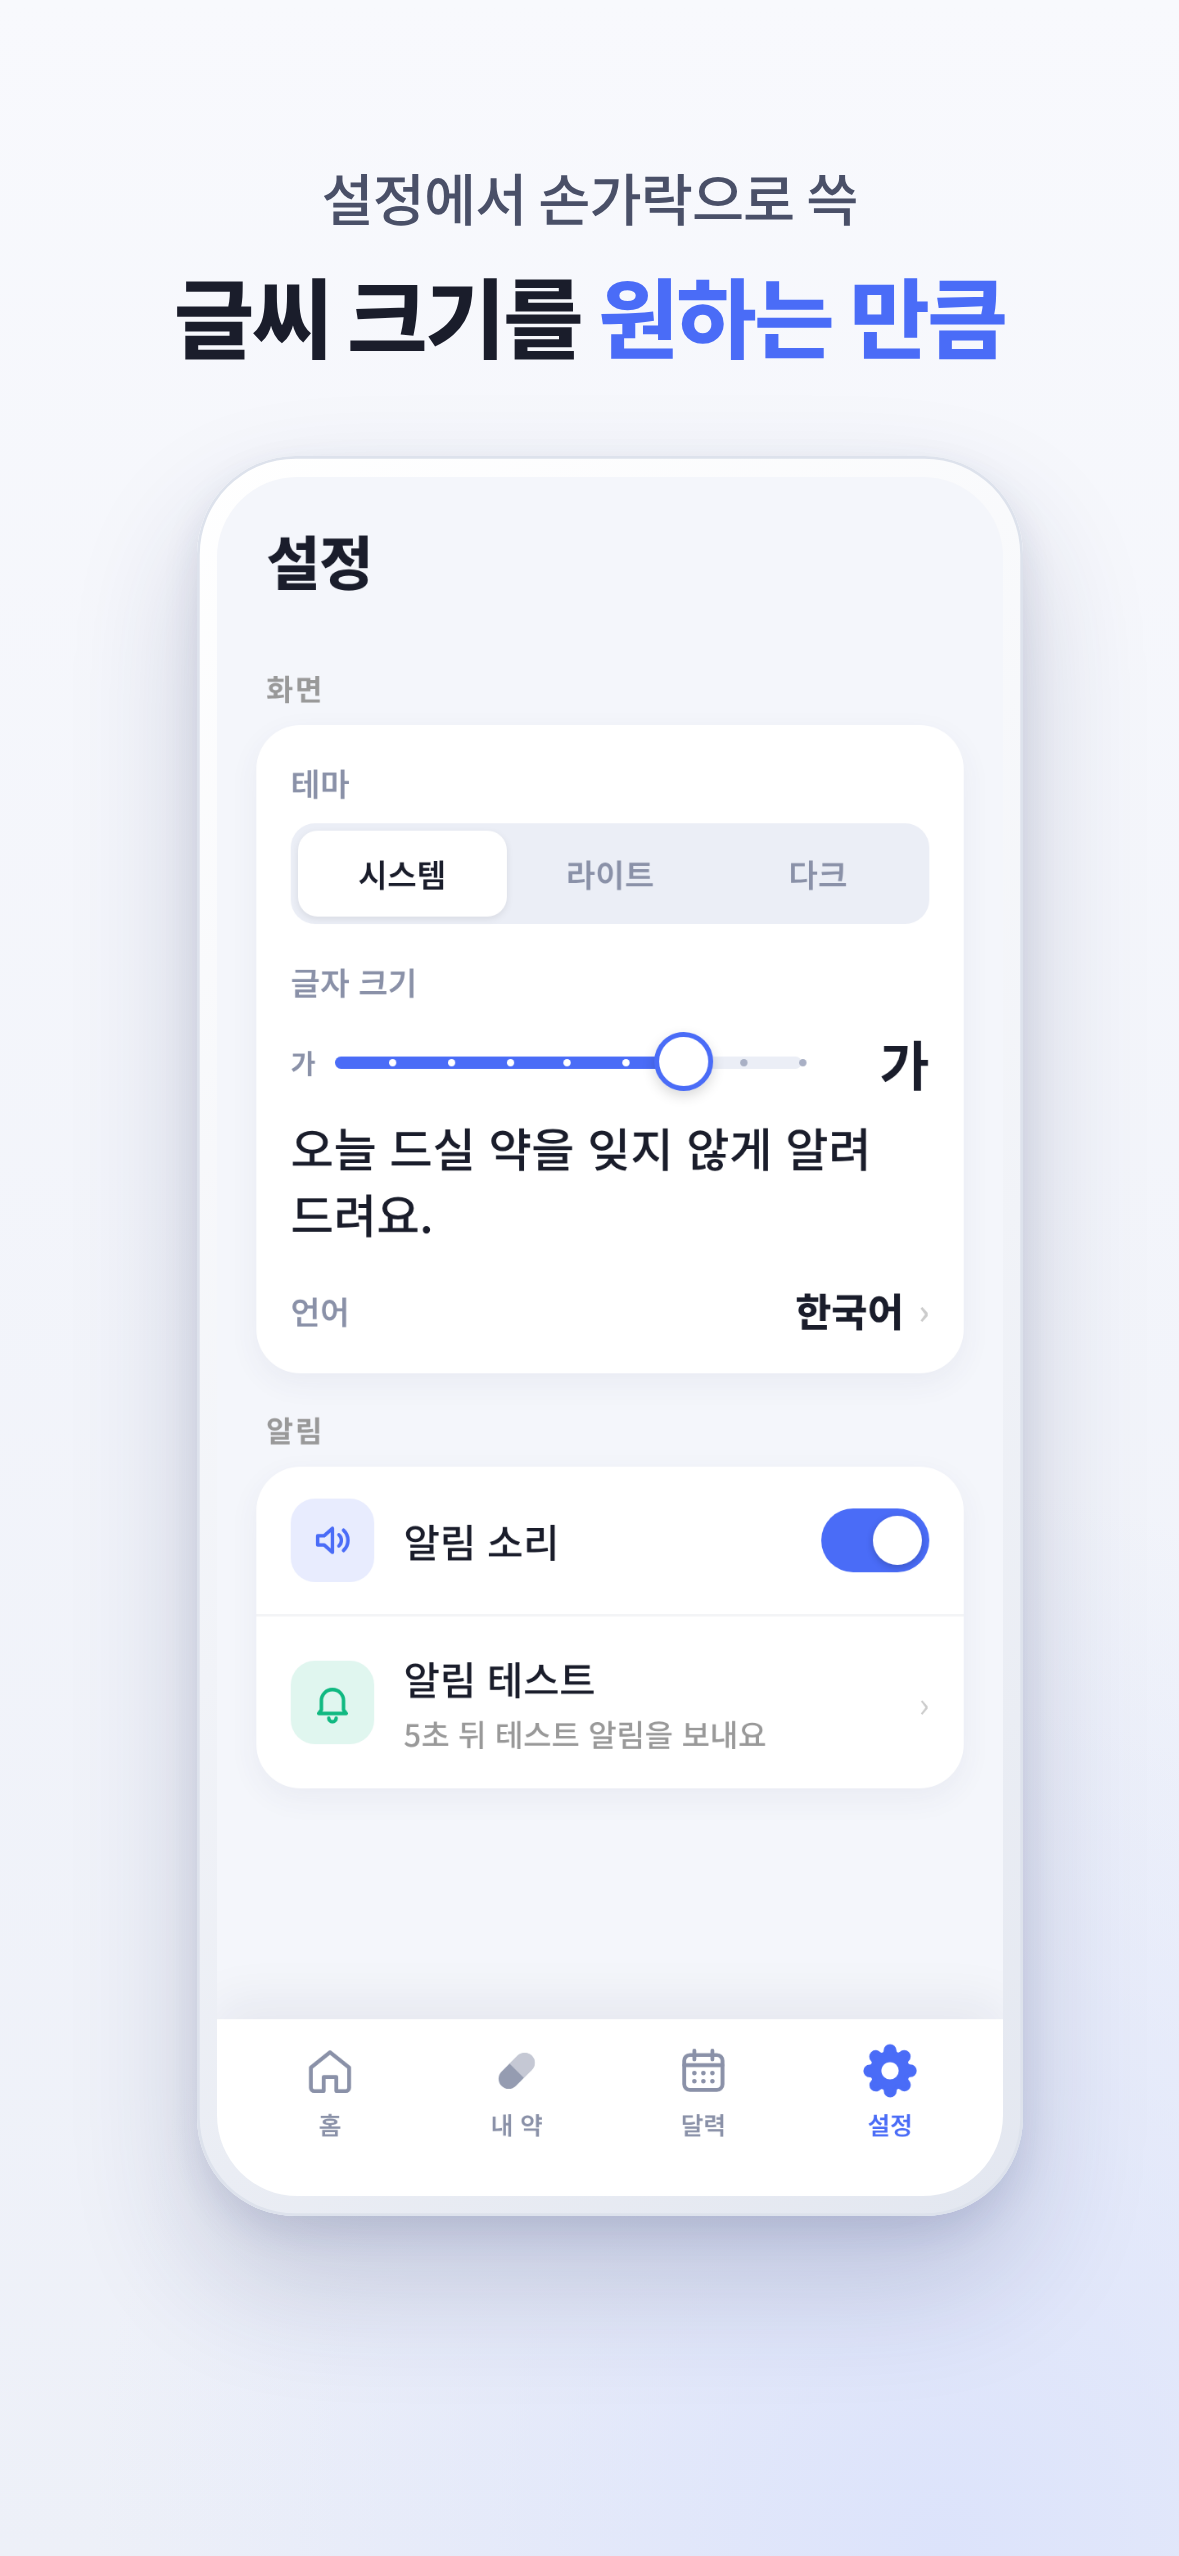
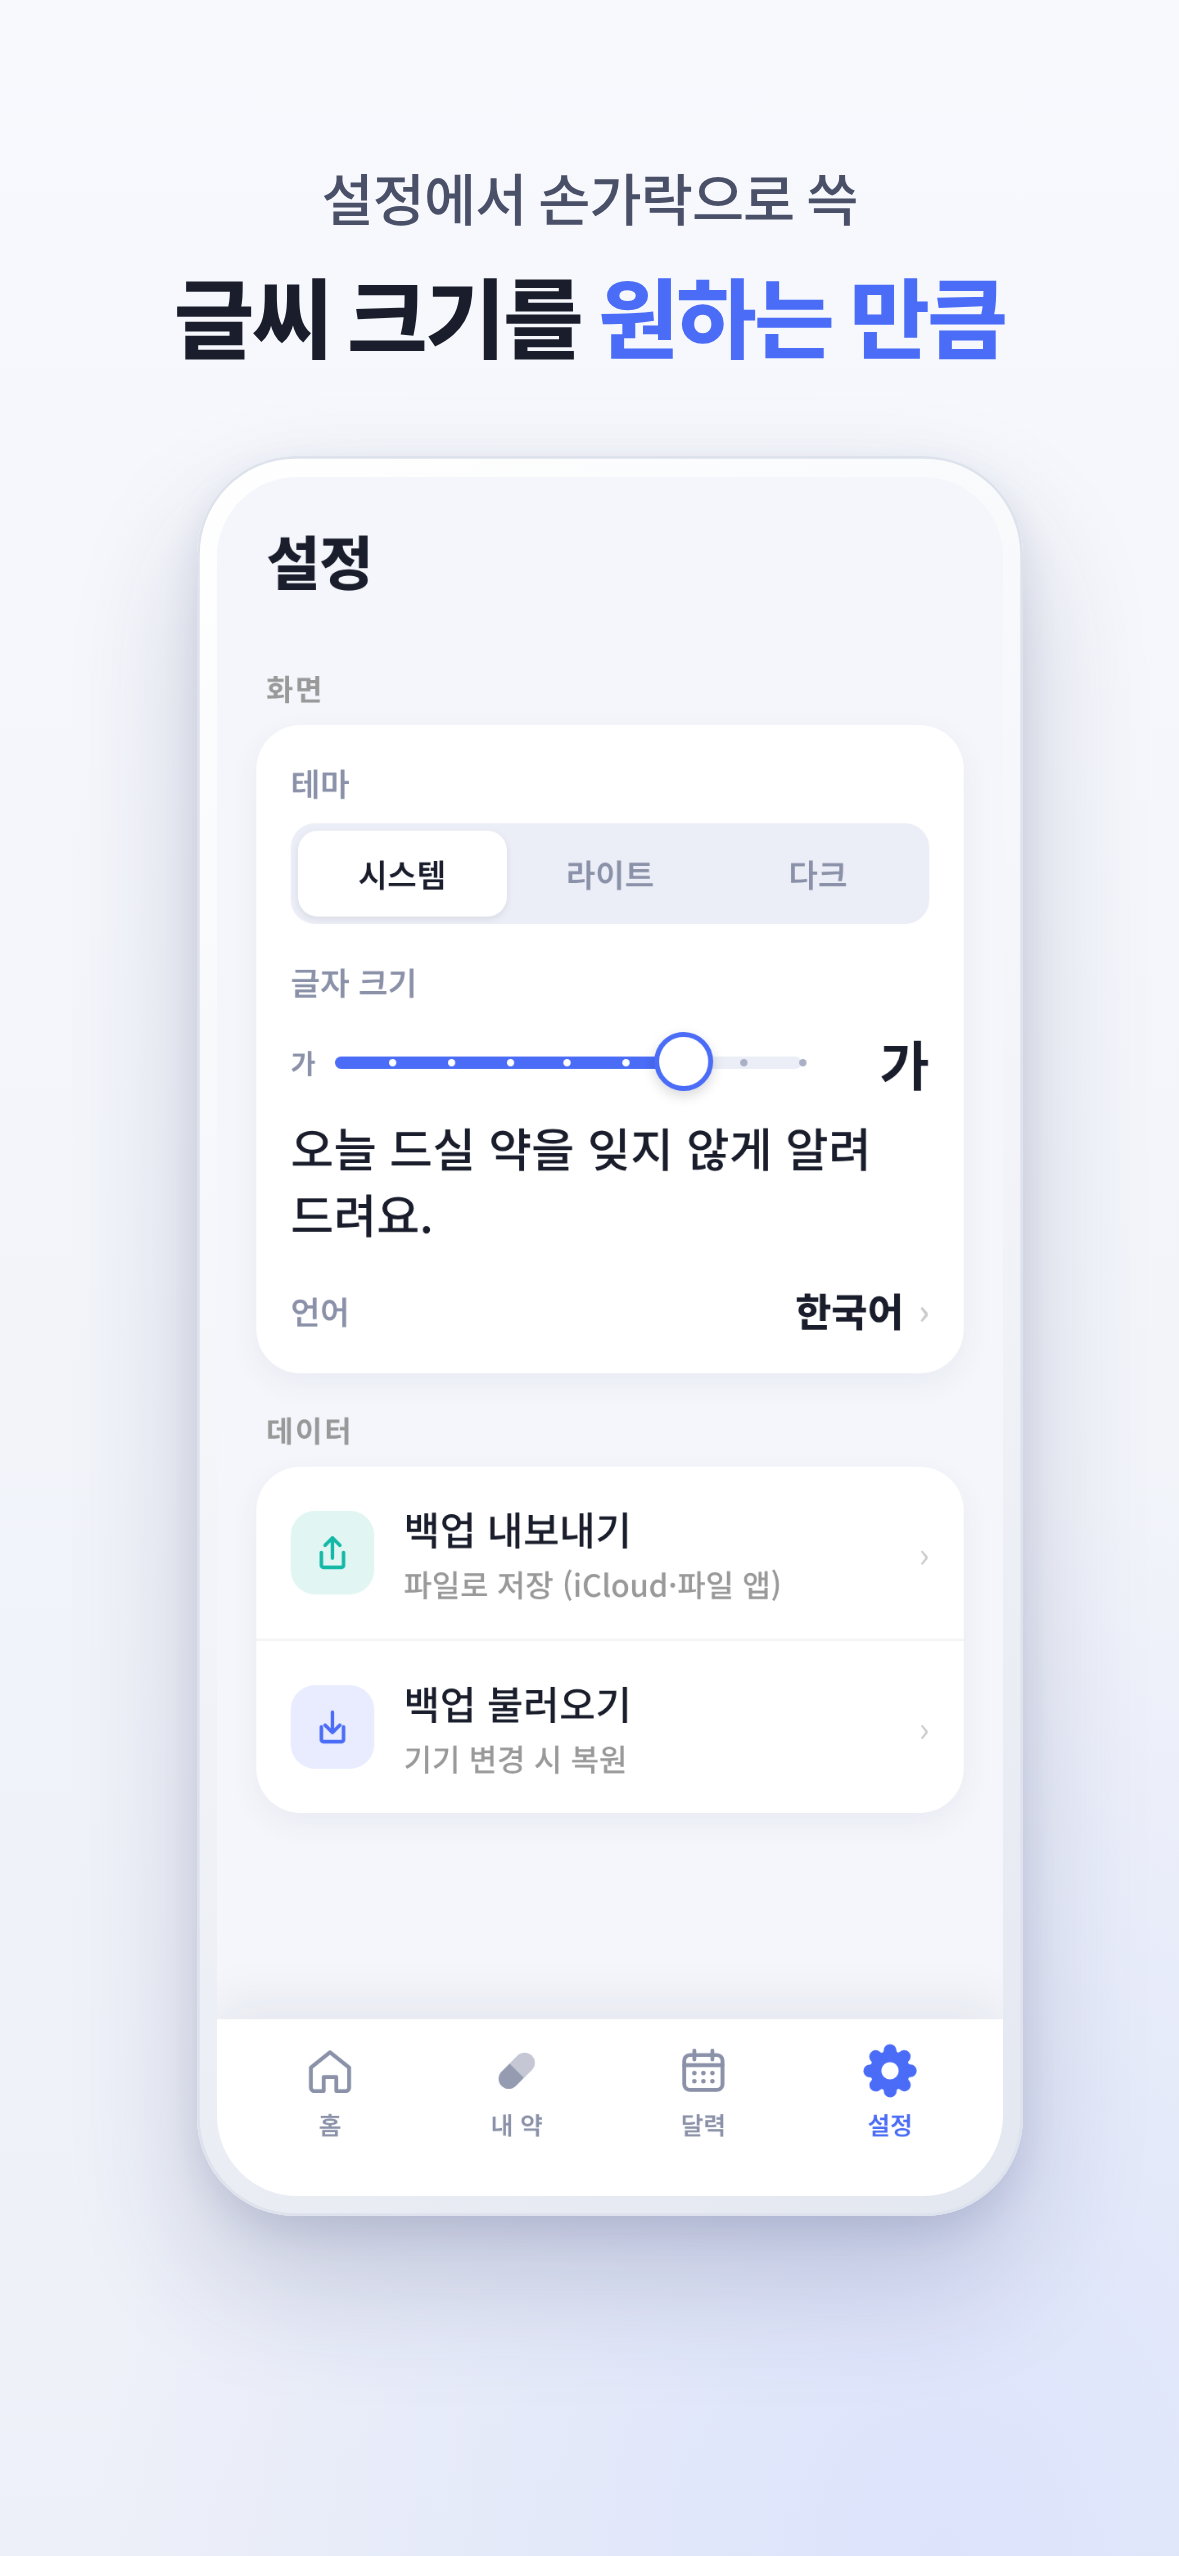
Mockup: match the app in five more places found by code review
- Calendar: month arrows at the card edges, streak chip under the calendar
- Family alerts: code entry in its own card below the family cards
- Settings: Display is followed by Data (backup), as in the app's order
- Medicine list: separate rounded delete button with a trash icon; drop the
  swipe hint the app doesn't show
Korean screenshots re-rendered at every size.

Claude-Session: https://claude.ai/code/session_01FsfgzBCkXCq3RhxTQFRGQP

diff --git a/MediRemind/mockup.html b/MediRemind/mockup.html
@@ -117,10 +117,10 @@
   .switch::after { content:''; position:absolute; right:3px; top:3px; width:20px; height:20px; background:#FFF; border-radius:10px; box-shadow:0 1px 3px rgba(0,0,0,.2); }
   .switch.off { background:#CCD2E0; }
   .switch.off::after { left:3px; right:auto; }
-  .med.swiped { transform:translateX(-64px); }
-  .swipe-wrap { position:relative; border-radius:18px; overflow:hidden; margin-bottom:10px; }
+  .med.swiped { transform:translateX(-82px); }
+  .swipe-wrap { position:relative; margin-bottom:10px; }
   .swipe-wrap .med { margin-bottom:0; }
-  .del { position:absolute; right:0; top:0; bottom:0; width:64px; background:#EF4444; color:#FFF; display:flex; flex-direction:column; align-items:center; justify-content:center; font-size:11px; font-weight:700; gap:2px; border-radius:0 18px 18px 0; }
+  .del { position:absolute; right:0; top:0; bottom:0; width:72px; background:#EF4444; color:#FFF; display:flex; flex-direction:column; align-items:center; justify-content:center; font-size:11px; font-weight:700; gap:2px; border-radius:18px; }
 
   /* ── Form ── */
   .sec-title { font-size:13px; font-weight:700; color:#4A6CF7; margin-bottom:11px; }
@@ -142,7 +142,8 @@
   /* ── Calendar ── */
   .rate-badge { background:#EDF1FE; color:#4A6CF7; border-radius:16px; padding:6px 13px; font-size:12px; font-weight:800; }
   .cal { background:#FFF; border-radius:20px; padding:14px; margin-bottom:12px; box-shadow:0 8px 20px rgba(63,74,126,.08); }
-  .cal .mon { text-align:center; font-weight:800; font-size:14px; margin-bottom:10px; color:#1A1D2B; }
+  .cal .mon { display:flex; justify-content:space-between; align-items:center; font-weight:800; font-size:14px; margin-bottom:10px; color:#1A1D2B; padding:0 4px; }
+  .cal .mon .ar { color:#4A6CF7; font-size:18px; font-weight:600; }
   .cal table { width:100%; border-collapse:collapse; font-size:11px; text-align:center; }
   .cal th { color:#8A91A8; font-weight:600; padding:4px 0; }
   .cal td { padding:6px 0; color:#333; position:relative; }
@@ -407,7 +408,7 @@
         <div class="switch"></div>
       </div>
       <div class="swipe-wrap">
-        <div class="del">🗑<br>삭제</div>
+        <div class="del"><svg viewBox="0 0 24 24" style="width:18px;height:18px;fill:#fff"><path d="M9 3h6l1 2h4v2H4V5h4zM6 9h12l-1 11a2 2 0 0 1-2 2H9a2 2 0 0 1-2-2z"/></svg><span>삭제</span></div>
         <div class="med swiped">
           <div class="icon purple"><svg class="pill-ic" viewBox="0 0 24 24"><g transform="rotate(-45 12 12)"><rect x="2.8" y="7.8" width="18.4" height="8.4" rx="4.2"/><path class="half" d="M12 7.8H7a4.2 4.2 0 0 0 0 8.4h5z"/></g></svg></div>
           <div class="b">
@@ -425,7 +426,6 @@
         </div>
         <div class="switch off"></div>
       </div>
-      <p style="text-align:center; font-size:11px; color:#9AA1B5; margin-top:8px">← 왼쪽으로 밀면 삭제</p>
     </div>
     <div class="tabbar">
       <div class="tab"><svg class="ic" viewBox="0 0 24 24"><path class="f" d="M3.5 10.6 12 3.8l8.5 6.8V19.5a1.5 1.5 0 0 1-1.5 1.5h-4.2v-6.2H9.2V21H5a1.5 1.5 0 0 1-1.5-1.5z"/></svg>홈</div>
@@ -488,7 +488,7 @@
     </div>
     <div class="body">
       <div class="cal">
-        <div class="mon">‹&nbsp;&nbsp;2026년 7월&nbsp;&nbsp;›</div>
+        <div class="mon"><span class="ar">‹</span>2026년 7월<span class="ar">›</span></div>
         <table>
           <tr><th>일</th><th>월</th><th>화</th><th>수</th><th>목</th><th>금</th><th>토</th></tr>
           <tr><td class="dis">28</td><td class="dis">29</td><td class="dis">30</td><td>1<span class="d"><i class="g"></i></span></td><td>2<span class="d"><i class="g"></i></span></td><td>3<span class="d"><i class="g"></i><i class="r"></i></span></td><td>4<span class="d"><i class="g"></i></span></td></tr>
@@ -496,6 +496,7 @@
           <tr><td>12</td><td>13</td><td>14</td><td>15</td><td>16</td><td>17</td><td>18</td></tr>
         </table>
       </div>
+      <div class="streak" style="margin:0 0 10px">🔥 12일 연속 복용</div>
       <div style="font-size:13px; font-weight:700; margin:2px 4px 8px;">오늘</div>
       <div class="rec" style="border-left-color:#4A6CF7">
         <span class="sd" style="background:#4A6CF7"></span>
@@ -674,8 +675,8 @@
         <div class="gd-row"><span class="gd-time">19:00</span><span class="gd-med">혈압약</span><span class="gd-st miss">안 먹음</span></div>
         <div class="gd-row"><span class="gd-time">22:00</span><span class="gd-med">종합비타민</span><span class="gd-st next">예정</span></div>
         <div class="hist"><div class="hist-h"><span class="gd-lbl">최근 2주</span><b>복용률 89%</b></div><div class="hbars"><div class="hb"><div class="ht"><i style="flex:0;background:#EBEEF6"></i><i style="flex:0;background:#EF4444"></i><i style="flex:3;background:#10B981"></i></div><span class="">23</span></div><div class="hb"><div class="ht"><i style="flex:0;background:#EBEEF6"></i><i style="flex:0;background:#EF4444"></i><i style="flex:3;background:#10B981"></i></div><span class="">24</span></div><div class="hb"><div class="ht"><i style="flex:0;background:#EBEEF6"></i><i style="flex:1;background:#EF4444"></i><i style="flex:2;background:#10B981"></i></div><span class="">25</span></div><div class="hb"><div class="ht"><i style="flex:0;background:#EBEEF6"></i><i style="flex:0;background:#EF4444"></i><i style="flex:3;background:#10B981"></i></div><span class="">26</span></div><div class="hb"><div class="ht"><i style="flex:0;background:#EBEEF6"></i><i style="flex:0;background:#EF4444"></i><i style="flex:3;background:#10B981"></i></div><span class="">27</span></div><div class="hb"><div class="ht"><i style="flex:0;background:#EBEEF6"></i><i style="flex:0;background:#EF4444"></i><i style="flex:3;background:#10B981"></i></div><span class="">28</span></div><div class="hb"><div class="ht"><i style="flex:0;background:#EBEEF6"></i><i style="flex:2;background:#EF4444"></i><i style="flex:1;background:#10B981"></i></div><span class="">29</span></div><div class="hb"><div class="ht"><i style="flex:0;background:#EBEEF6"></i><i style="flex:0;background:#EF4444"></i><i style="flex:3;background:#10B981"></i></div><span class="">30</span></div><div class="hb"><div class="ht"><i style="flex:0;background:#EBEEF6"></i><i style="flex:0;background:#EF4444"></i><i style="flex:3;background:#10B981"></i></div><span class="">1</span></div><div class="hb"><div class="ht"><i style="flex:0;background:#EBEEF6"></i><i style="flex:0;background:#EF4444"></i><i style="flex:3;background:#10B981"></i></div><span class="">2</span></div><div class="hb"><div class="ht"><i style="flex:0;background:#EBEEF6"></i><i style="flex:1;background:#EF4444"></i><i style="flex:2;background:#10B981"></i></div><span class="">3</span></div><div class="hb"><div class="ht"><i style="flex:0;background:#EBEEF6"></i><i style="flex:0;background:#EF4444"></i><i style="flex:3;background:#10B981"></i></div><span class="">4</span></div><div class="hb"><div class="ht"><i style="flex:0;background:#EBEEF6"></i><i style="flex:0;background:#EF4444"></i><i style="flex:3;background:#10B981"></i></div><span class="">5</span></div><div class="hb"><div class="ht"><i style="flex:1;background:#EBEEF6"></i><i style="flex:1;background:#EF4444"></i><i style="flex:1;background:#10B981"></i></div><span class="td">6</span></div></div><div class="hleg"><i style="background:#10B981"></i>복용<i style="background:#EF4444"></i>안 먹음</div></div>
-        <div class="gd-input"><span class="gd-field">6자리 코드</span><span class="gd-btn">연결</span></div>
       </div>
+      <div class="card" style="padding:12px 14px"><div class="gd-input" style="margin-top:0"><span class="gd-field">6자리 코드</span><span class="gd-btn">연결</span></div></div>
     </div>
   </div></div>
 
@@ -695,10 +696,10 @@
         <div class="bs-pv">오늘 드실 약을 잊지 않게 알려 드려요.</div>
         <div class="langrow bs-lang"><span>언어</span><b>한국어</b><span class="chev">›</span></div>
       </div>
-      <div class="set-lbl">알림</div>
+      <div class="set-lbl">데이터</div>
       <div class="set-card">
-        <div class="set-row"><div class="set-ic" style="background:rgba(74,108,247,.13);color:#4A6CF7"><svg viewBox="0 0 24 24"><path d="M4 9.5h3.5L12 5.5v13l-4.5-4H4z"/><path d="M15.5 9a4 4 0 0 1 0 6M18 6.5a7.5 7.5 0 0 1 0 11"/></svg></div><div class="set-tt">알림 소리</div><div class="switch"></div></div>
-        <div class="set-row"><div class="set-ic" style="background:rgba(16,185,129,.13);color:#10B981"><svg viewBox="0 0 24 24"><path d="M6 16V11a6 6 0 0 1 12 0v5l1.5 2h-15z"/><path d="M10 20.5a2 2 0 0 0 4 0"/></svg></div><div class="set-tt">알림 테스트<small>5초 뒤 테스트 알림을 보내요</small></div><span class="chev">›</span></div>
+        <div class="set-row"><div class="set-ic" style="background:rgba(20,184,166,.13);color:#14B8A6"><svg viewBox="0 0 24 24"><path d="M12 15V4M8 8l4-4 4 4"/><path d="M6 12v7a1 1 0 0 0 1 1h10a1 1 0 0 0 1-1v-7"/></svg></div><div class="set-tt">백업 내보내기<small>파일로 저장 (iCloud·파일 앱)</small></div><span class="chev">›</span></div>
+        <div class="set-row"><div class="set-ic" style="background:rgba(74,108,247,.13);color:#4A6CF7"><svg viewBox="0 0 24 24"><path d="M12 4v11M8 11l4 4 4-4"/><path d="M6 12v7a1 1 0 0 0 1 1h10a1 1 0 0 0 1-1v-7"/></svg></div><div class="set-tt">백업 불러오기<small>기기 변경 시 복원</small></div><span class="chev">›</span></div>
       </div>
     </div>
     <div class="tabbar">
